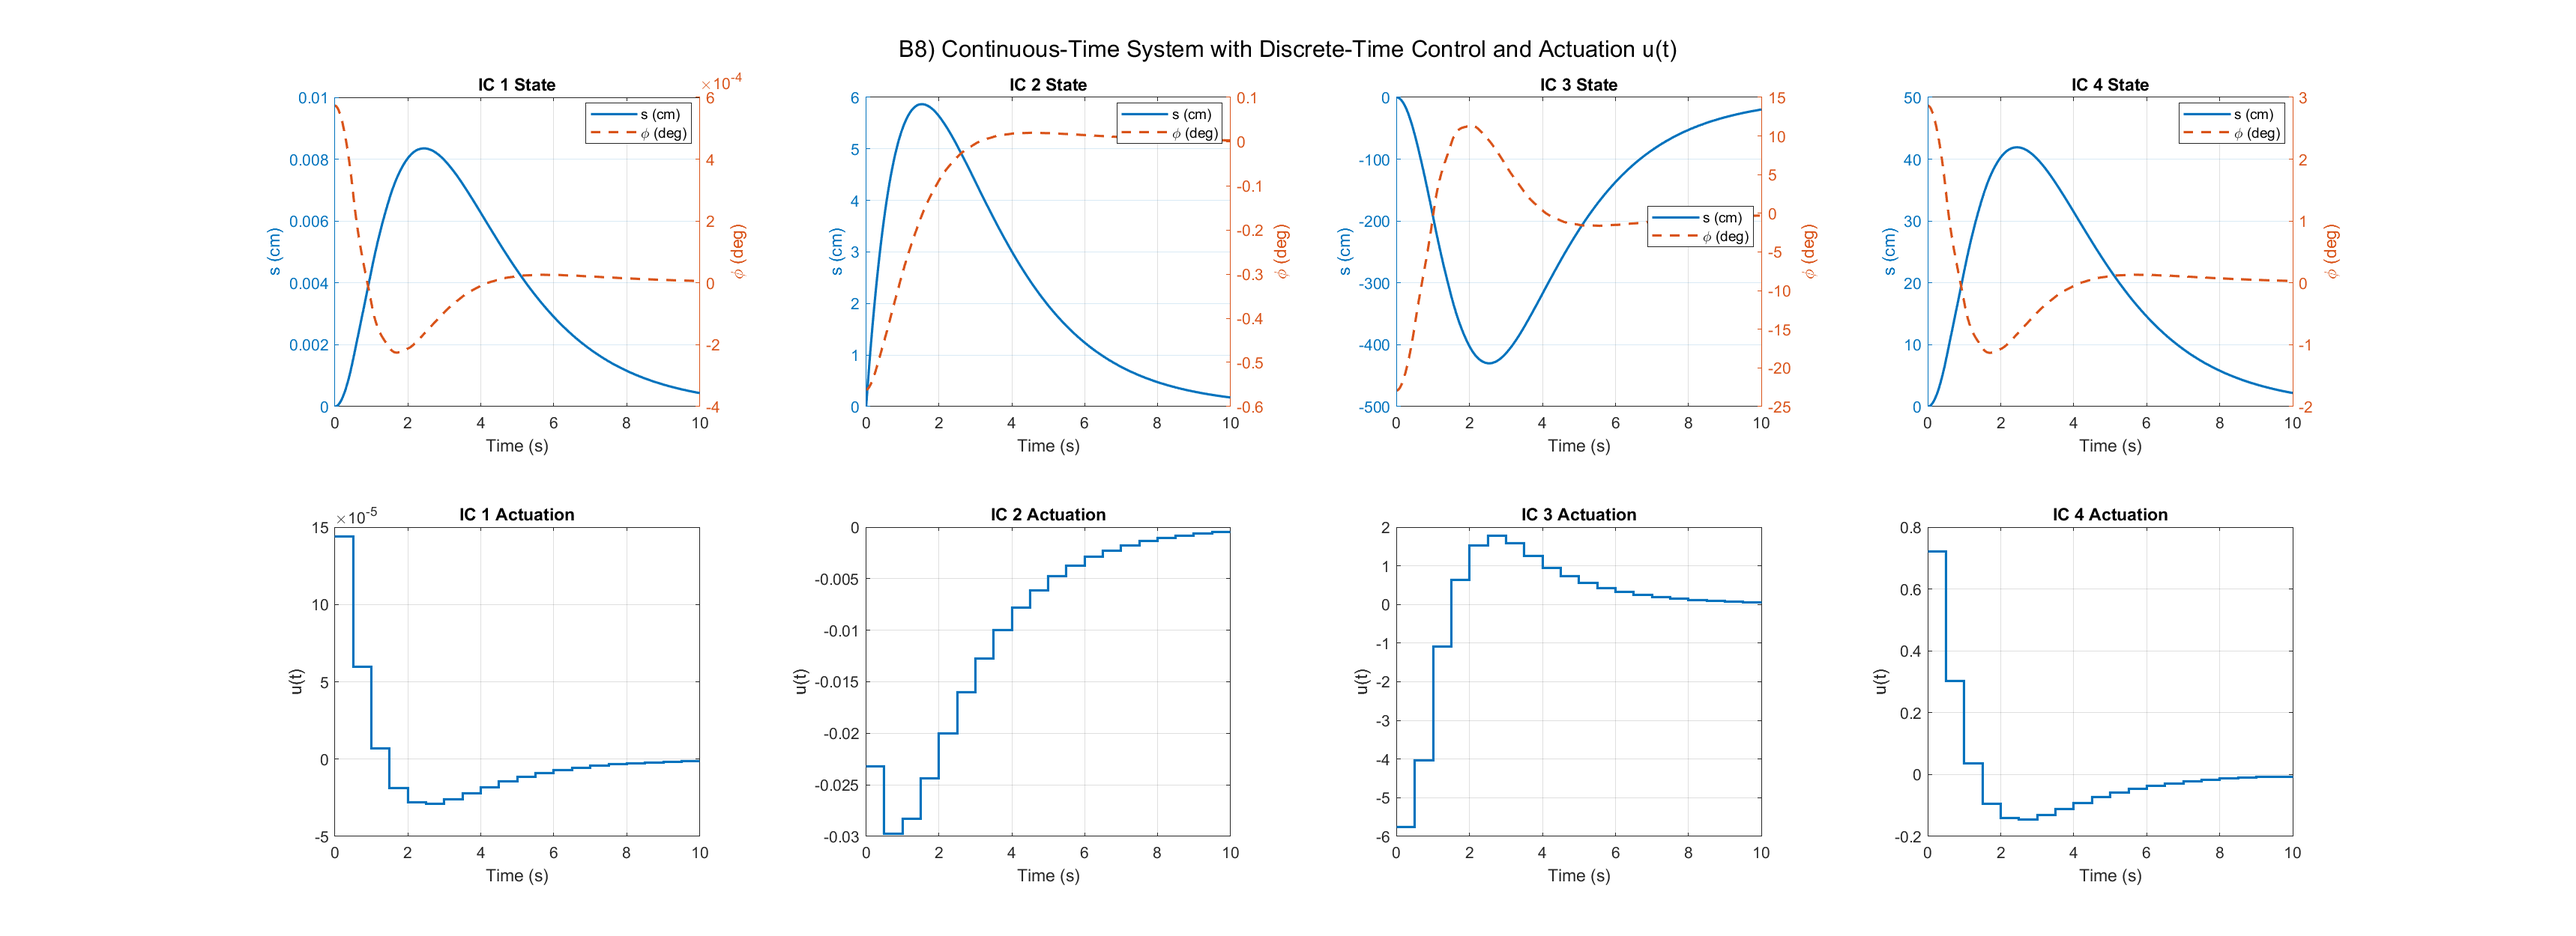
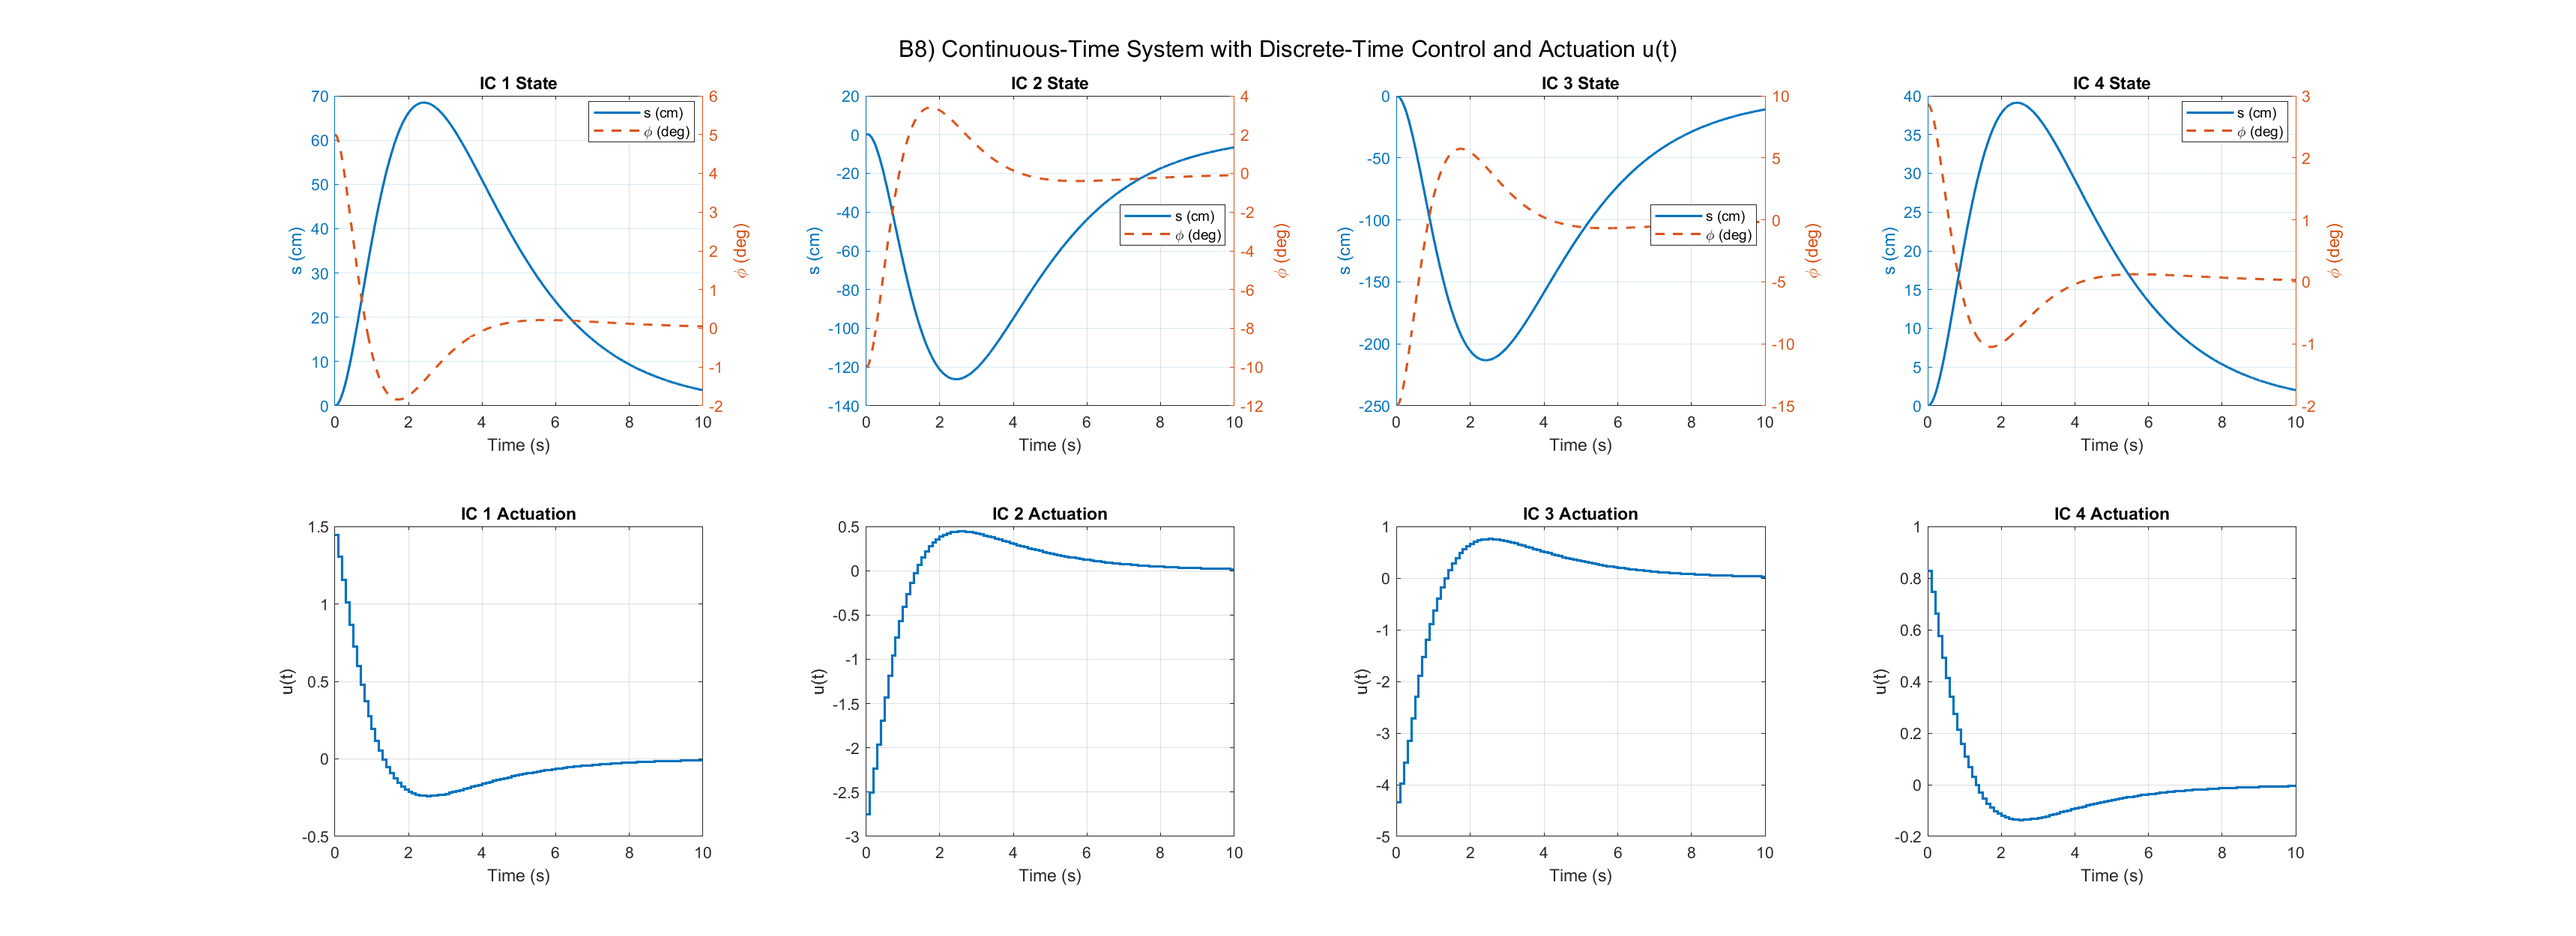
plots again

diff --git a/model/main.m b/model/main.m
@@ -6,14 +6,14 @@ part_a;
 
 load_variables;
 
-plot_B2 = true;
-plot_B3 = true;
-plot_B4 = false;
-plot_B5 = false;
-plot_B7 = false;
-plot_B8 = false;
-plot_B9 = false;
-plot_B10 = false;
+plot_B2  = true;
+plot_B3  = true;
+plot_B4  = true;
+plot_B5  = true;
+plot_B7  = true;
+plot_B8  = true;
+plot_B9  = true;
+plot_B10 = true;
 
 %                      s     sdot   phi     dphi
 initial_conditions = [ 0,   0,     0.0872665,      0;
@@ -264,7 +264,7 @@ end
 % LECTURE 7 SLIDE 17/19
 
 part_b_4;
-Ts = 0.5;
+Ts = 0.1;
 
 
 
